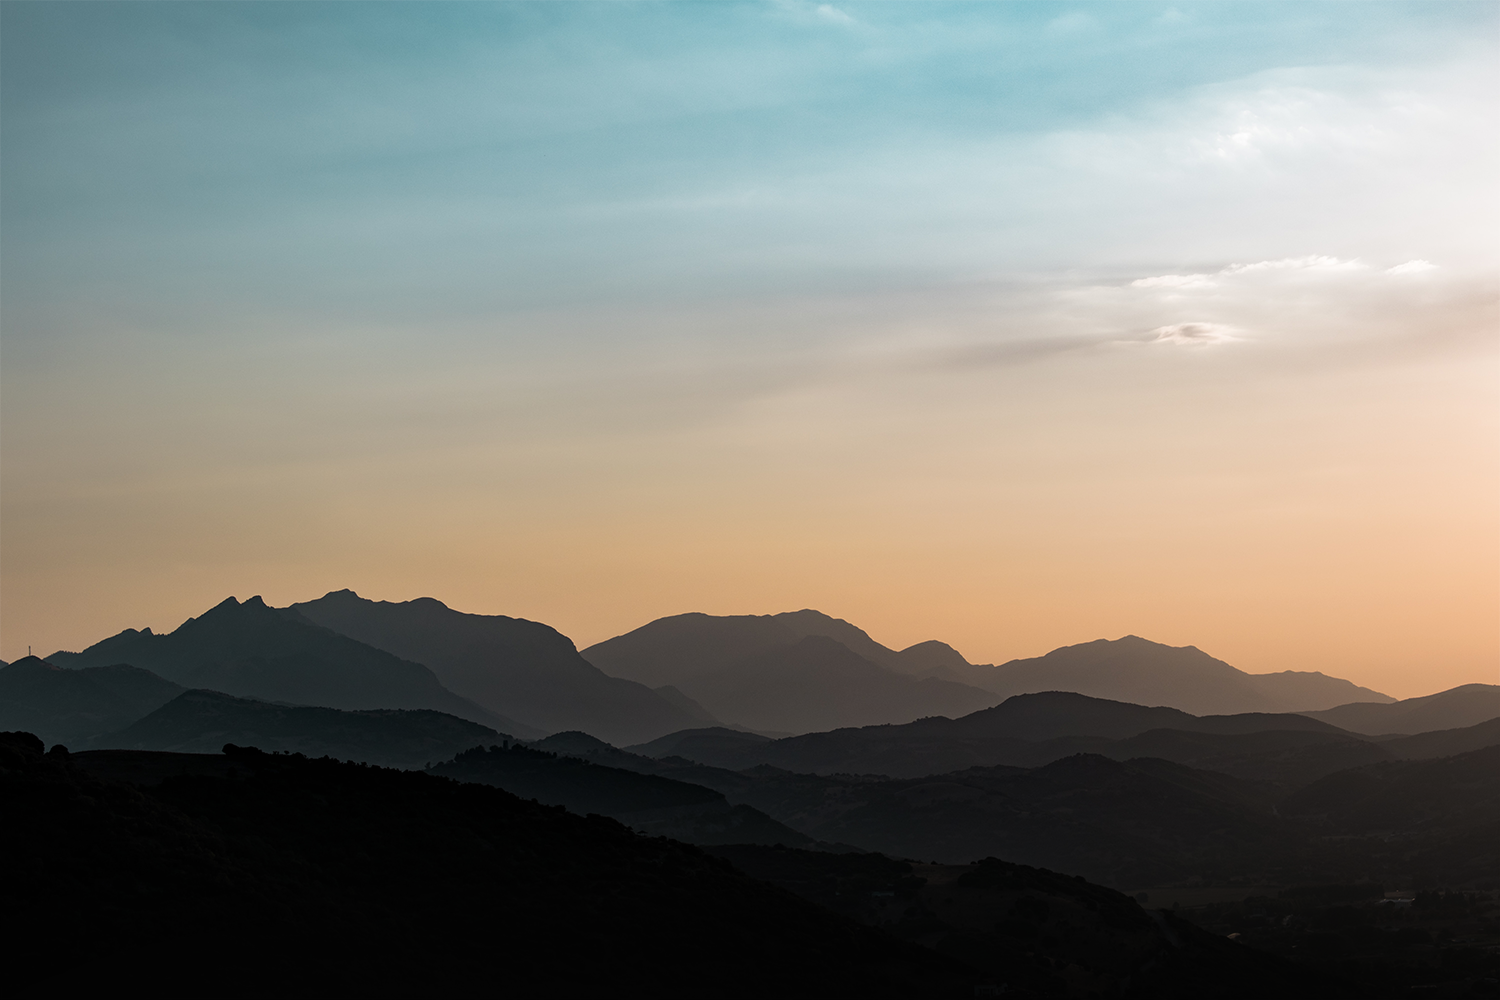
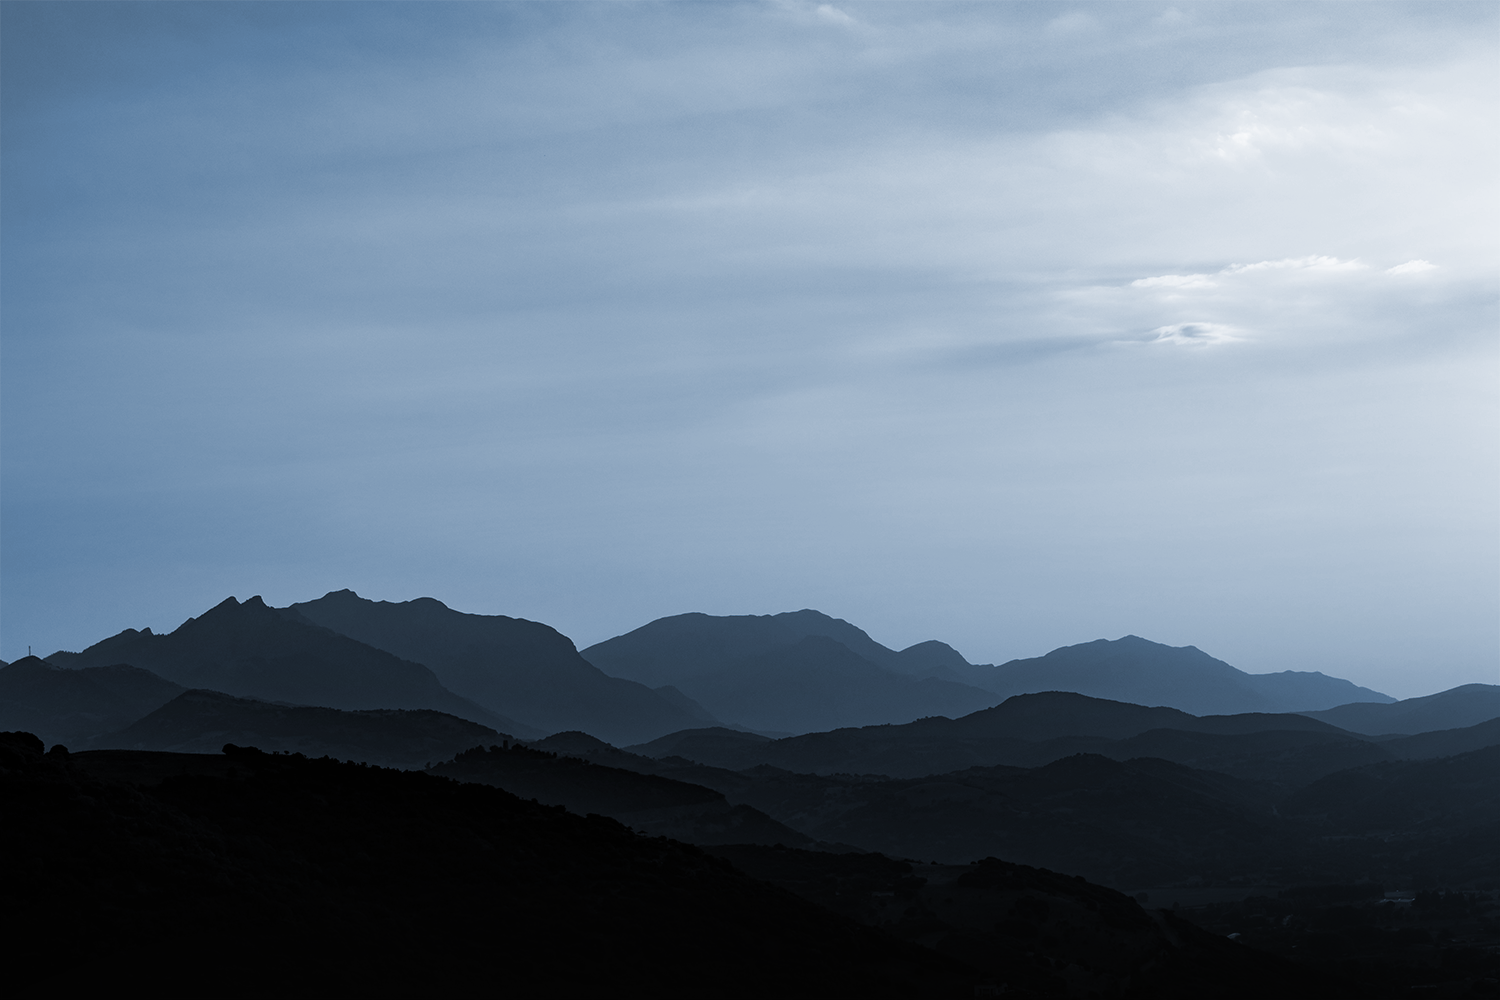
fixed image hue

diff --git a/src/components/home/landing.tsx b/src/components/home/landing.tsx
@@ -10,11 +10,20 @@ function Landing({ className }: DefaultProps) {
         offset: ["start start", "end start"],
     });
 
-    const backgroundY = useTransform(scrollYProgress, [0, 1], ["0%", "100%"]);
-    const backgroundMountainY = useTransform(
+    const backgroundFullY = useTransform(
+        scrollYProgress,
+        [0, 1],
+        ["0%", "100%"]
+    );
+    const backgroundHalfY = useTransform(
         scrollYProgress,
         [0, 1],
         ["0%", "50%"]
+    );
+    const backgroundQuarterY = useTransform(
+        scrollYProgress,
+        [0, 1],
+        ["0%", "25%"]
     );
 
     const textDiv = useTransform(scrollYProgress, [0, 1], ["0%", "100%"]);
@@ -38,6 +47,7 @@ function Landing({ className }: DefaultProps) {
         show: {
             opacity: 1,
             transition: {
+                delay: 1.5,
                 staggerChildren: 0.1,
                 duration: 0.5,
             },
@@ -53,6 +63,7 @@ function Landing({ className }: DefaultProps) {
             opacity: 1,
             y: 0,
             transition: {
+                delay: 1.5,
                 duration: 0.5,
                 ease: "easeInOut",
             },
@@ -128,7 +139,7 @@ function Landing({ className }: DefaultProps) {
                     backgroundImage: `url(/mountain-full.png)`,
                     backgroundPosition: "bottom",
                     backgroundSize: "cover",
-                    y: backgroundY,
+                    y: backgroundFullY,
                     opacity: 0.7,
                 }}
             />
@@ -138,7 +149,7 @@ function Landing({ className }: DefaultProps) {
                     backgroundImage: `url(/bottom-half.png)`,
                     backgroundPosition: "bottom",
                     backgroundSize: "cover",
-                    y: backgroundMountainY,
+                    y: backgroundHalfY,
                     opacity: 0.8,
                 }}
             />
@@ -148,7 +159,7 @@ function Landing({ className }: DefaultProps) {
                     backgroundImage: `url(/bottom-quarter.png)`,
                     backgroundPosition: "bottom",
                     backgroundSize: "cover",
-                    y: backgroundMountainY,
+                    y: backgroundQuarterY,
                     opacity: 0.9,
                 }}
             />

diff --git a/src/app/(home)/page.tsx b/src/app/(home)/page.tsx
@@ -25,20 +25,12 @@ function Page() {
                     return 100;
                 }
 
-                if (prev < 10) {
-                    return prev + 4;
-                }
-
-                if (prev < 30) {
-                    return prev + 8;
+                if (prev < 20) {
+                    return prev + 10;
                 }
 
                 if (prev < 50) {
-                    return prev + 16;
-                }
-
-                if (prev < 70) {
-                    return prev + 20;
+                    return prev + 30;
                 }
 
                 if (prev < 90) {
